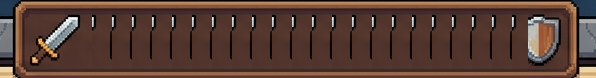
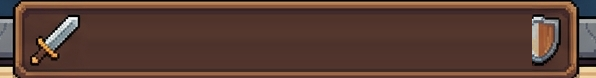
Base: corrige fonte (faux-bold), 6 slots de equipamento so-icone, placa sem tracos
- font-synthesis:none -> some o negrito falso/borrado da Lilita One (peso unico)
- Equipamento: 6 slots (cabeca/peito/maos/pes/arma/acessorio) so com icone, enxuto;
  itens agora tem slot head/chest/hands/feet/trinket (arma = Forja); +itens (elmo/luvas/etc)
- Party card enxuto: rosto + ATK/HP + contador de itens equipados (sem mini-icones)
- Placa (ribbon) com meio de madeira liso (coluna media esticada) -> sem 'tracos'
- state: equip com 6 slots + migracao (armor -> chest)

Claude-Session: https://claude.ai/code/session_01EbSkREzXFkmQR9kLV1N6oq

Changed region(s): [[0.151, 0.1795, 0.906, 0.8205], [0.453, 0.4103, 0.7248, 0.7436], [0.1812, 0.4103, 0.4228, 0.7436]]

diff --git a/vibe-gambit/src/data.js b/vibe-gambit/src/data.js
@@ -126,30 +126,43 @@ export const ACADEMY = {
 };
 
 // --- ITENS / EQUIPAMENTO -----------------------------------------------------
-// slot: 'armor' | 'trinket' (a "arma" é a arma de classe melhorada na Forja).
+// slots do herói: head, chest, hands, feet, weapon, trinket
+//   (a "arma" = arma de classe melhorada na Forja; os demais são itens do inventário)
 // bonus: somado aos atributos do herói (em combate e na ficha). rarity p/ cor.
+export const EQUIP_SLOT_KEYS = ['head','chest','hands','feet','weapon','trinket'];
 export const ITEMS = {
-  leather_armor:{ id:'leather_armor', name:'Armadura de Couro', slot:'armor',   icon:'🦺', rarity:'comum', bonus:{ hp:20 } },
-  chain_mail:   { id:'chain_mail',    name:'Cota de Malha',     slot:'armor',   icon:'🛡', rarity:'raro',  bonus:{ hp:35, def:3 } },
-  mage_robe:    { id:'mage_robe',     name:'Manto Arcano',      slot:'armor',   icon:'🥼', rarity:'raro',  bonus:{ hp:12, mag:5 } },
-  power_ring:   { id:'power_ring',    name:'Anel de Força',     slot:'trinket', icon:'💍', rarity:'comum', bonus:{ atk:3 } },
-  swift_boots:  { id:'swift_boots',   name:'Botas Velozes',     slot:'trinket', icon:'🥾', rarity:'comum', bonus:{ spd:2 } },
-  vital_amulet: { id:'vital_amulet',  name:'Amuleto Vital',     slot:'trinket', icon:'📿', rarity:'raro',  bonus:{ hp:18, mp:10 } },
+  // cabeça
+  iron_helm:     { id:'iron_helm',     name:'Elmo de Ferro',    slot:'head',    icon:'🪖', rarity:'comum', bonus:{ def:2, hp:8 } },
+  arcane_hat:    { id:'arcane_hat',    name:'Chapéu Arcano',    slot:'head',    icon:'🎩', rarity:'raro',  bonus:{ mag:4 } },
+  // peito
+  leather_armor: { id:'leather_armor', name:'Armadura de Couro',slot:'chest',   icon:'🦺', rarity:'comum', bonus:{ hp:20 } },
+  chain_mail:    { id:'chain_mail',    name:'Cota de Malha',    slot:'chest',   icon:'🛡', rarity:'raro',  bonus:{ hp:35, def:3 } },
+  mage_robe:     { id:'mage_robe',     name:'Manto Arcano',     slot:'chest',   icon:'🥼', rarity:'raro',  bonus:{ hp:12, mag:5 } },
+  // mãos
+  leather_gloves:{ id:'leather_gloves',name:'Luvas de Couro',   slot:'hands',   icon:'🧤', rarity:'comum', bonus:{ atk:2 } },
+  power_gauntlet:{ id:'power_gauntlet',name:'Manopla de Força', slot:'hands',   icon:'✊', rarity:'raro',  bonus:{ atk:4 } },
+  // pés
+  swift_boots:   { id:'swift_boots',   name:'Botas Velozes',    slot:'feet',    icon:'👢', rarity:'comum', bonus:{ spd:2 } },
+  // acessório
+  power_ring:    { id:'power_ring',    name:'Anel de Força',    slot:'trinket', icon:'💍', rarity:'comum', bonus:{ atk:3 } },
+  vital_amulet:  { id:'vital_amulet',  name:'Amuleto Vital',    slot:'trinket', icon:'📿', rarity:'raro',  bonus:{ hp:18, mp:10 } },
 };
 // Itens que o jogador já começa possuindo (no inventário, não equipados).
-export const STARTER_INVENTORY = ['leather_armor','power_ring','swift_boots','mage_robe'];
+export const STARTER_INVENTORY = ['leather_armor','power_ring','swift_boots','iron_helm','leather_gloves'];
 // Tabela de drop de itens ao limpar uma fase (chance por item).
 export const ITEM_DROPS = [
-  { item:'leather_armor', chance:0.20 }, { item:'power_ring', chance:0.16 },
-  { item:'swift_boots', chance:0.16 }, { item:'chain_mail', chance:0.10 },
-  { item:'mage_robe', chance:0.10 }, { item:'vital_amulet', chance:0.08 },
+  { item:'leather_armor', chance:0.16 }, { item:'power_ring', chance:0.14 },
+  { item:'swift_boots', chance:0.14 }, { item:'iron_helm', chance:0.14 },
+  { item:'leather_gloves', chance:0.14 }, { item:'chain_mail', chance:0.09 },
+  { item:'mage_robe', chance:0.09 }, { item:'arcane_hat', chance:0.08 },
+  { item:'power_gauntlet', chance:0.07 }, { item:'vital_amulet', chance:0.07 },
 ];
 
 // Soma dos bônus dos itens equipados de um herói (pura).
 export function itemBonuses(equip){
   const out = { atk:0, def:0, mag:0, spd:0, hp:0, mp:0 };
   if(!equip) return out;
-  for(const slot of ['weapon','armor','trinket']){
+  for(const slot of EQUIP_SLOT_KEYS){
     const it = ITEMS[equip[slot]];
     if(it && it.bonus) for(const k in it.bonus) out[k] = (out[k]||0) + it.bonus[k];
   }

diff --git a/vibe-gambit/src/game.js b/vibe-gambit/src/game.js
@@ -126,11 +126,18 @@ function showPrep(stageId){
 // ================================================================ BASE (hub deitado — layout da referência)
 // Slots de equipamento por herói (item guardado em hs.equip[slot] = itemId|null)
 const EQUIP_SLOTS = [
+  { key:'head',   icon:'🪖', label:'Cabeça' },
+  { key:'chest',  icon:'👕', label:'Peito' },
+  { key:'hands',  icon:'🧤', label:'Mãos' },
+  { key:'feet',   icon:'👢', label:'Pés' },
   { key:'weapon', icon:'⚔', label:'Arma' },
-  { key:'armor',  icon:'🛡', label:'Armadura' },
   { key:'trinket',icon:'💍', label:'Acessório' },
 ];
-function heroEquip(hs){ return hs.equip || (hs.equip = { weapon:null, armor:null, trinket:null }); }
+function heroEquip(hs){
+  if(!hs.equip) hs.equip = {};
+  for(const s of EQUIP_SLOTS) if(!(s.key in hs.equip)) hs.equip[s.key] = null;
+  return hs.equip;
+}
 let selHero = null;   // herói selecionado no painel de detalhes/inventário
 
 function renderBase(){
@@ -181,20 +188,12 @@ function renderHubParty(mount){
     <div class="party-cards">${S.heroes.map(hs=>{
       const def = HERO_DEFS.find(h=>h.id===hs.id);
       const {atk, hp} = heroRuntimeStats(hs);
-      const eq = heroEquip(hs);
-      const slots = EQUIP_SLOTS.map(s=>{
-        const it = s.key==='weapon' ? null : ITEMS[eq[s.key]];
-        const filled = s.key==='weapon' || !!it;
-        const ic = s.key==='weapon' ? s.icon : (it ? it.icon : s.icon);
-        const badge = s.key==='weapon' ? `<b>+${hs.weaponLevel}</b>` : '';
-        return `<span class="eq-slot ${filled?'on':''}" title="${s.label}"><span class="eq-ic" style="${filled?'':'opacity:.4'}">${ic}</span>${badge}</span>`;
-      }).join('');
+      const nEquip = EQUIP_SLOTS.filter(s=>s.key!=='weapon' && ITEMS[heroEquip(hs)[s.key]]).length;
       return `<div class="party-card ${hs.id===selHero?'sel':''}" data-id="${hs.id}" style="--acc:${accentOf(def.id)}">
         <div class="pc-face"><img src="assets/${def.id}_face.png" alt=""></div>
         <div class="pc-info">
           <div class="pc-nm">${def.name}</div>
-          <div class="pc-st">⚔${atk} · ❤${hp}</div>
-          <div class="eq-row">${slots}</div>
+          <div class="pc-st">⚔${atk} · ❤${hp} · 🎒${nEquip}</div>
         </div>
       </div>`;
     }).join('')}</div>`;
@@ -212,13 +211,12 @@ function renderDetail(){
   const statChip = (ic,v)=>`<span class="d-stat">${ic}<b>${v}</b></span>`;
   const slotsHTML = EQUIP_SLOTS.map(s=>{
     if(s.key==='weapon'){
-      return `<button class="d-slot on" data-slot="weapon" style="--acc:${accentOf(hs.id)}">
-        <span class="ds-ic">⚔</span><span class="ds-tx"><b>Arma</b><small>Nv ${hs.weaponLevel}/5</small></span></button>`;
+      return `<button class="d-slot on wpn" data-slot="weapon" title="Arma · Forja" style="--acc:${accentOf(hs.id)}">
+        <span class="ds-ic">⚔</span><span class="ds-badge">+${hs.weaponLevel}</span></button>`;
     }
     const it = ITEMS[eq[s.key]];
-    return `<button class="d-slot ${it?'on':''}" data-slot="${s.key}" style="--acc:${accentOf(hs.id)}">
-      <span class="ds-ic" style="${it?'':'opacity:.4'}">${it?it.icon:s.icon}</span>
-      <span class="ds-tx"><b>${s.label}</b><small>${it?it.name:'vazio'}</small></span>
+    return `<button class="d-slot ${it?'on':''}" data-slot="${s.key}" title="${s.label}${it?' · '+it.name:' (vazio)'}" style="--acc:${accentOf(hs.id)}">
+      <span class="ds-ic" style="${it?'':'opacity:.32'}">${it?it.icon:s.icon}</span>
       ${it?'<span class="ds-x" title="Desequipar">✕</span>':''}</button>`;
   }).join('');
   const inv = S.inventory || [];

diff --git a/vibe-gambit/index.html b/vibe-gambit/index.html
@@ -20,11 +20,11 @@
     --font:'Lilita One','Trebuchet MS','Segoe UI',sans-serif; --mono:ui-monospace,'Consolas',monospace;
     --appw:460px;
   }
-  *{box-sizing:border-box;margin:0;padding:0;-webkit-tap-highlight-color:transparent}
+  *{box-sizing:border-box;margin:0;padding:0;-webkit-tap-highlight-color:transparent;font-synthesis:none}
   html,body{height:100%}
   body{background:radial-gradient(130% 90% at 50% -10%,#31404f 0%,var(--bg2) 65%);color:var(--ink);
     font-family:var(--font);min-height:100dvh;display:flex;justify-content:center;
-    padding:8px;-webkit-font-smoothing:antialiased}
+    padding:8px;-webkit-font-smoothing:antialiased;text-rendering:optimizeLegibility;font-synthesis:none}
   #app{width:min(var(--appw),100%);display:flex;flex-direction:column;gap:10px}
 
   /* ---------- HUD ---------- */
@@ -140,11 +140,15 @@
   .d-stats{display:flex;flex-wrap:wrap;gap:6px;margin-top:6px}
   .d-stat{display:inline-flex;align-items:center;gap:3px;font-size:12px;font-weight:800;color:var(--ink2);background:var(--inset);border:1px solid var(--line);border-radius:7px;padding:2px 7px}
   .d-stat b{color:var(--ink)}
-  .d-slots{display:grid;grid-template-columns:1fr 1fr 1fr;gap:7px}
-  .d-slot{display:flex;align-items:center;gap:7px;background:#fff8e8;border:1px solid var(--line);border-radius:10px;padding:7px 8px;text-align:left;position:relative;box-shadow:none;min-width:0}
-  .d-slot.on{border-color:var(--acc);box-shadow:inset 0 0 0 1px var(--acc)}
-  .ds-ic{font-size:22px;flex:none;line-height:1} .ds-tx{min-width:0} .ds-tx b{display:block;font-size:12px;color:var(--ink)} .ds-tx small{font-size:10px;color:var(--dim);white-space:nowrap;overflow:hidden;text-overflow:ellipsis;display:block}
-  .ds-x{position:absolute;top:3px;right:6px;font-size:11px;color:var(--enemy);font-weight:900}
+  /* 6 slots de equipamento — SÓ ícone, enxuto (arte entra depois) */
+  .d-slots{display:grid;grid-template-columns:repeat(6,1fr);gap:6px}
+  .d-slot{position:relative;aspect-ratio:1;display:grid;place-items:center;background:var(--inset);
+    border:1px solid var(--line);border-radius:11px;padding:0;box-shadow:none;min-width:0}
+  .d-slot.on{background:#fff8e8;border-color:var(--acc);box-shadow:inset 0 0 0 1.5px var(--acc)}
+  .ds-ic{font-size:24px;line-height:1}
+  .ds-badge{position:absolute;bottom:1px;right:3px;font-size:9px;font-weight:800;color:#fff;background:var(--acc);border-radius:6px;padding:0 3px;line-height:1.35}
+  .ds-x{position:absolute;top:-4px;right:-4px;width:16px;height:16px;display:grid;place-items:center;font-size:9px;color:#fff;background:var(--enemy);border-radius:50%;font-weight:900;border:1.5px solid #fff}
+  @media(max-width:360px){ .d-slots{grid-template-columns:repeat(6,1fr);gap:4px} .ds-ic{font-size:20px} }
   .inv-cap{font-size:13px;font-weight:900;color:var(--ink2);margin-top:2px} .inv-cap small{font-weight:700;font-size:10px;color:var(--dim)}
   /* inventário: grade COMPACTA de ícones — tudo visível, sem rolagem */
   .inv-grid{display:grid;grid-template-columns:repeat(auto-fill,minmax(66px,1fr));gap:7px}

diff --git a/vibe-gambit/src/state.js b/vibe-gambit/src/state.js
@@ -21,7 +21,7 @@ export function newGame(){
       weaponLevel: h.weaponLevel,
       slots: h.slots,                          // linhas de gambit ativas (2..maxSlots)
       gambits: h.gambits.map(g => ({ ...g })), // cópia editável
-      equip: { weapon:null, armor:null, trinket:null },
+      equip: { head:null, chest:null, hands:null, feet:null, weapon:null, trinket:null },
     })),
     inventory: [...STARTER_INVENTORY],          // itens possuídos (não equipados)
     stagesUnlocked: Object.fromEntries(STAGES.map(s => [s.id, s.unlocked])),
@@ -34,7 +34,10 @@ export function migrate(state){
   if(!state) return state;
   if(!Array.isArray(state.inventory)) state.inventory = [...STARTER_INVENTORY];
   for(const hs of state.heroes || []){
-    if(!hs.equip) hs.equip = { weapon:null, armor:null, trinket:null };
+    const base = { head:null, chest:null, hands:null, feet:null, weapon:null, trinket:null };
+    hs.equip = Object.assign(base, hs.equip || {});
+    // saves antigos usavam 'armor' -> migra p/ 'chest'
+    if(hs.equip.armor){ if(!hs.equip.chest) hs.equip.chest = hs.equip.armor; delete hs.equip.armor; }
   }
   return state;
 }
